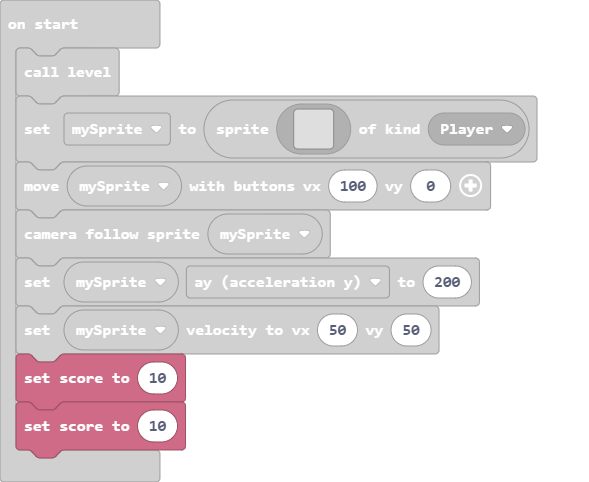
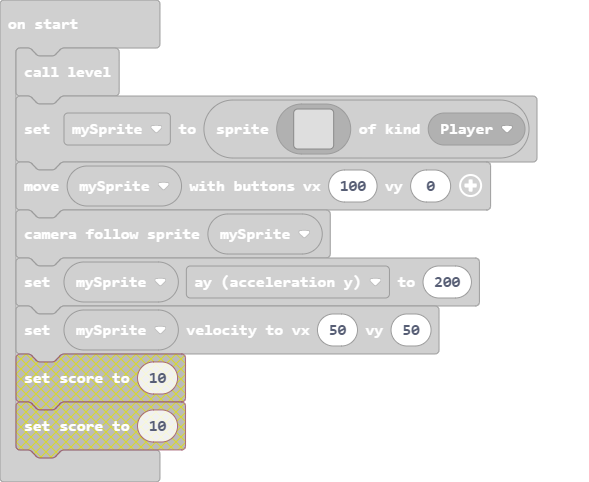
Update main.blocks, main.ts

Changed region(s): [[0.0, 0.7158, 0.3362, 0.9647]]

diff --git a/main.ts b/main.ts
@@ -24,5 +24,3 @@ controller.moveSprite(mySprite, 100, 0)
 scene.cameraFollowSprite(mySprite)
 mySprite.ay = 200
 mySprite.setVelocity(50, 50)
-info.setScore(10)
-info.setScore(10)
